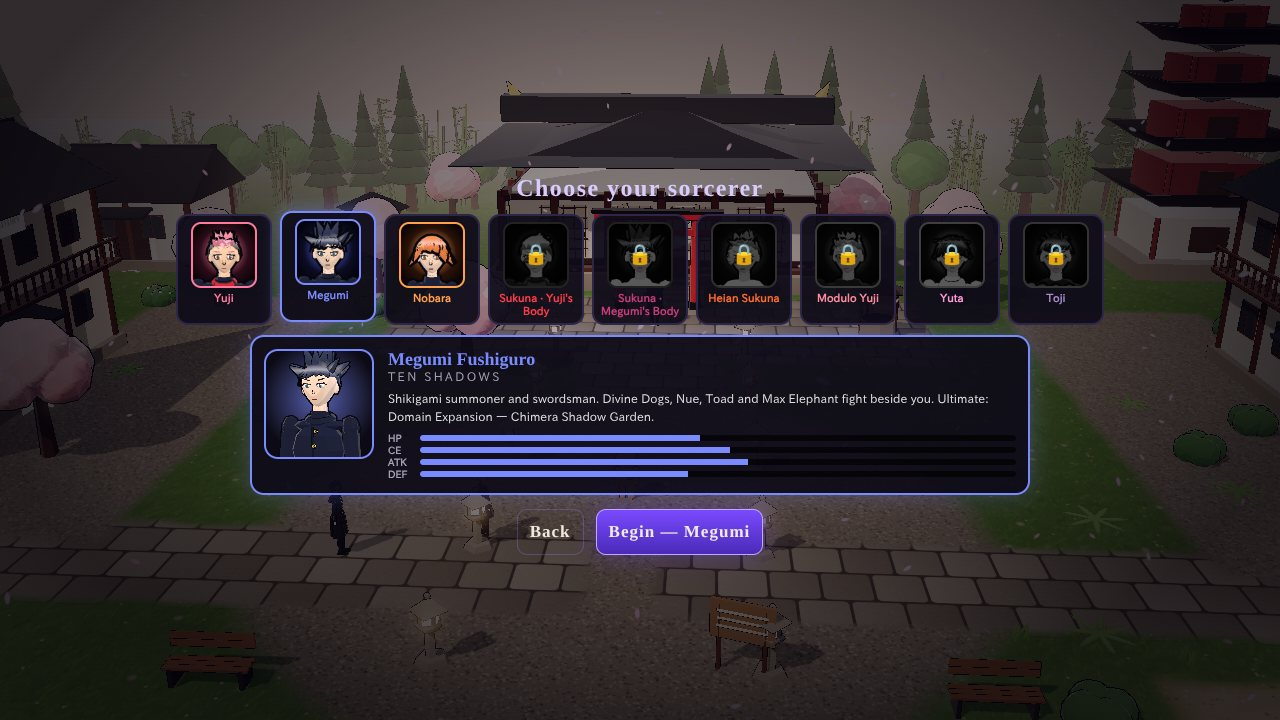
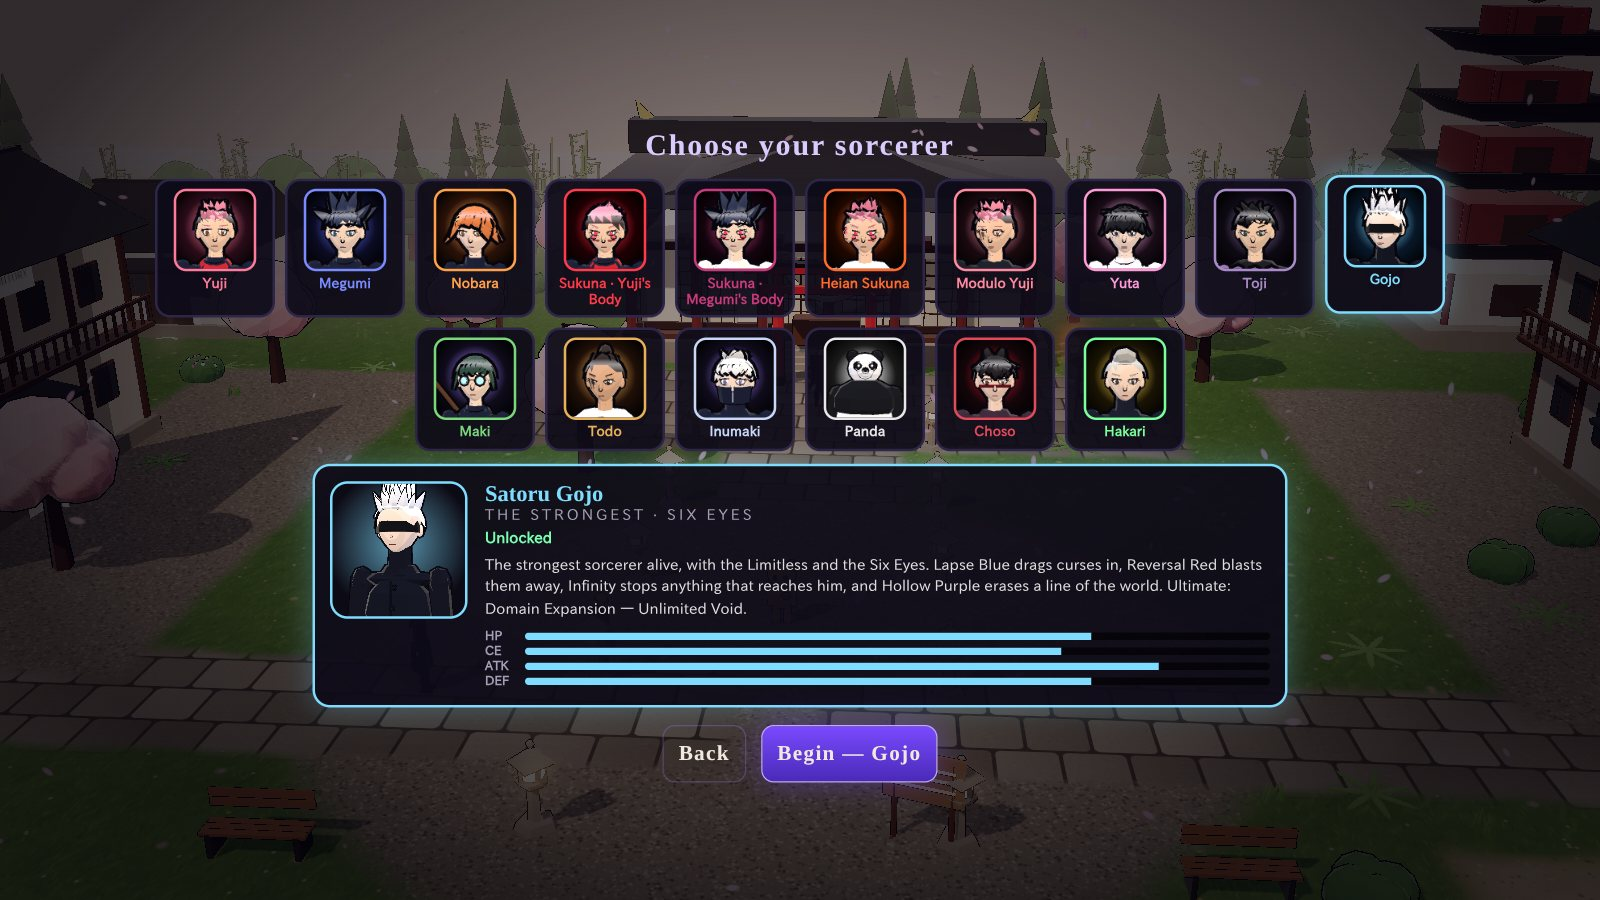
README: 3.0 screenshots (sixteen sorcerers, Gojo, boss stages, Records, Japanese, iPhone)
Claude-Session: https://claude.ai/code/session_01RNDSBy5GbRiHbSC8KqQifq

diff --git a/README.md b/README.md
@@ -73,6 +73,22 @@ game's own animations and stay on the phone.
 
 ## Screenshots
 
+<p align="center"><img src="docs/screenshots/class-select.jpg" width="860" alt="Choosing from sixteen sorcerers"><br><sub><b>3.0: sixteen sorcerers.</b> Gojo, Maki, Todo, Inumaki, Panda, Choso and Hakari join the roster, each with eleven techniques and an ultimate</sub></p>
+
+<table>
+  <tr>
+    <td width="50%"><img src="docs/screenshots/gojo-play.jpg" alt="Playing as Satoru Gojo"><br><sub><b>Satoru Gojo</b>: Hollow Technique: Purple erases a line of the field</sub></td>
+    <td width="50%"><img src="docs/screenshots/boss-phase.jpg" alt="A boss entering Phase 2"><br><sub><b>Every boss changes in its later stages</b>: a pillar of light, a bigger form and a signature move to open Phase 2 and the Final Phase</sub></td>
+  </tr>
+  <tr>
+    <td width="50%"><img src="docs/screenshots/records.jpg" alt="The Records tab"><br><sub><b>Records</b>: Boss Rush, 31 achievements, best boss times and a bestiary</sub></td>
+    <td width="50%"><img src="docs/screenshots/japanese.jpg" alt="The game in Japanese"><br><sub><b>日本語</b>: menus, techniques, quests and every line of dialogue in Japanese</sub></td>
+  </tr>
+  <tr>
+    <td colspan="2" align="center"><img src="docs/screenshots/iphone.jpg" alt="The game on an iPhone" width="70%"><br><sub><b>On iPhone</b>: the home-screen web app at iPhone size, full screen and offline</sub></td>
+  </tr>
+</table>
+
 <p align="center"><img src="docs/screenshots/cast.jpg" width="860" alt="The cast in the courtyard of Jujutsu High"><br><sub><b>2.7.9: a new look for every character.</b> Nobara, Megumi, Yuji, Gojo, Maki, Yuta, Inumaki and Panda with realistic proportions, long coats with buttons and hoods, and layered hair</sub></p>
 
 <table>
@@ -109,8 +125,7 @@ game's own animations and stay on the phone.
     <td><img src="docs/screenshots/daily.jpg" alt="Daily exorcisms"><br><sub><b>Daily exorcisms</b>: three bosses a day from Akari Nitta, each with drops of its own</sub></td>
   </tr>
   <tr>
-    <td width="50%"><img src="docs/screenshots/class-select.jpg" alt="Class select"><br><sub><b>Choose your sorcerer</b>: three first-years and six unlockable sorcerers, each with its own skill tree</sub></td>
-    <td width="50%"><img src="docs/screenshots/jujutsu-high.jpg" alt="Jujutsu High"><br><sub><b>Tokyo Jujutsu High</b>: the hub, with shops, quests and fast travel</sub></td>
+    <td colspan="2" align="center"><img src="docs/screenshots/jujutsu-high.jpg" alt="Jujutsu High" width="50%"><br><sub><b>Tokyo Jujutsu High</b>: the hub, with shops, quests and fast travel</sub></td>
   </tr>
   <tr>
     <td><img src="docs/screenshots/interior.jpg" alt="Sugisawa High corridors"><br><sub><b>Enterable buildings</b>: Sugisawa High's corridors, rebuilt on every visit</sub></td>
